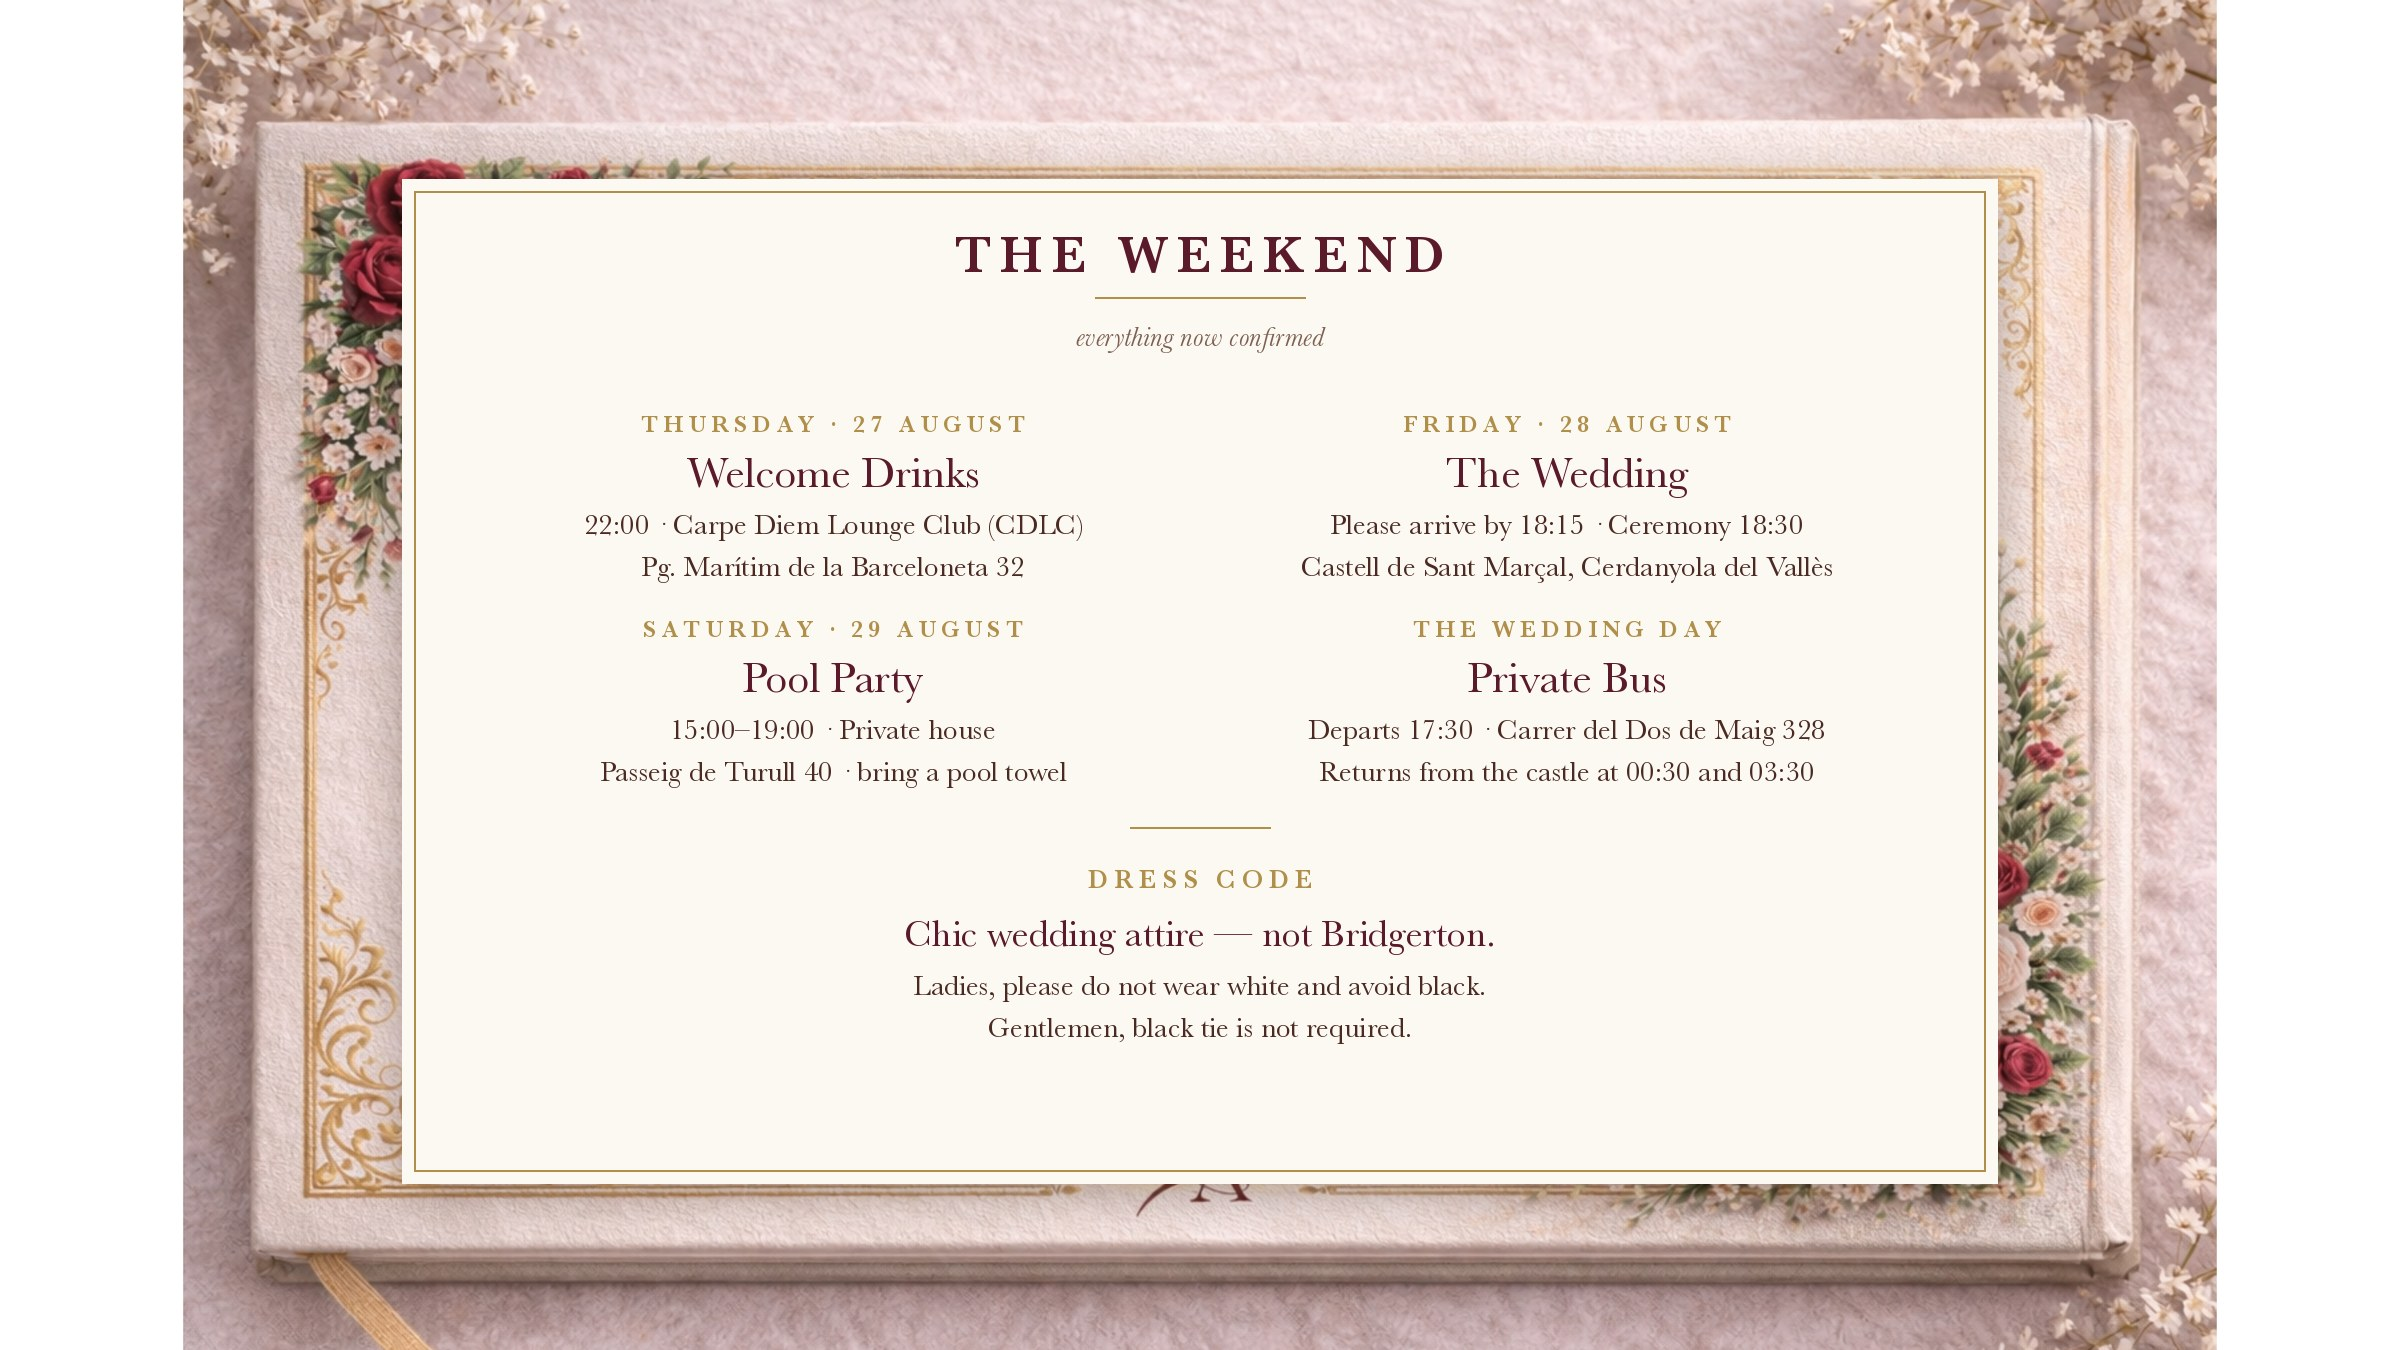
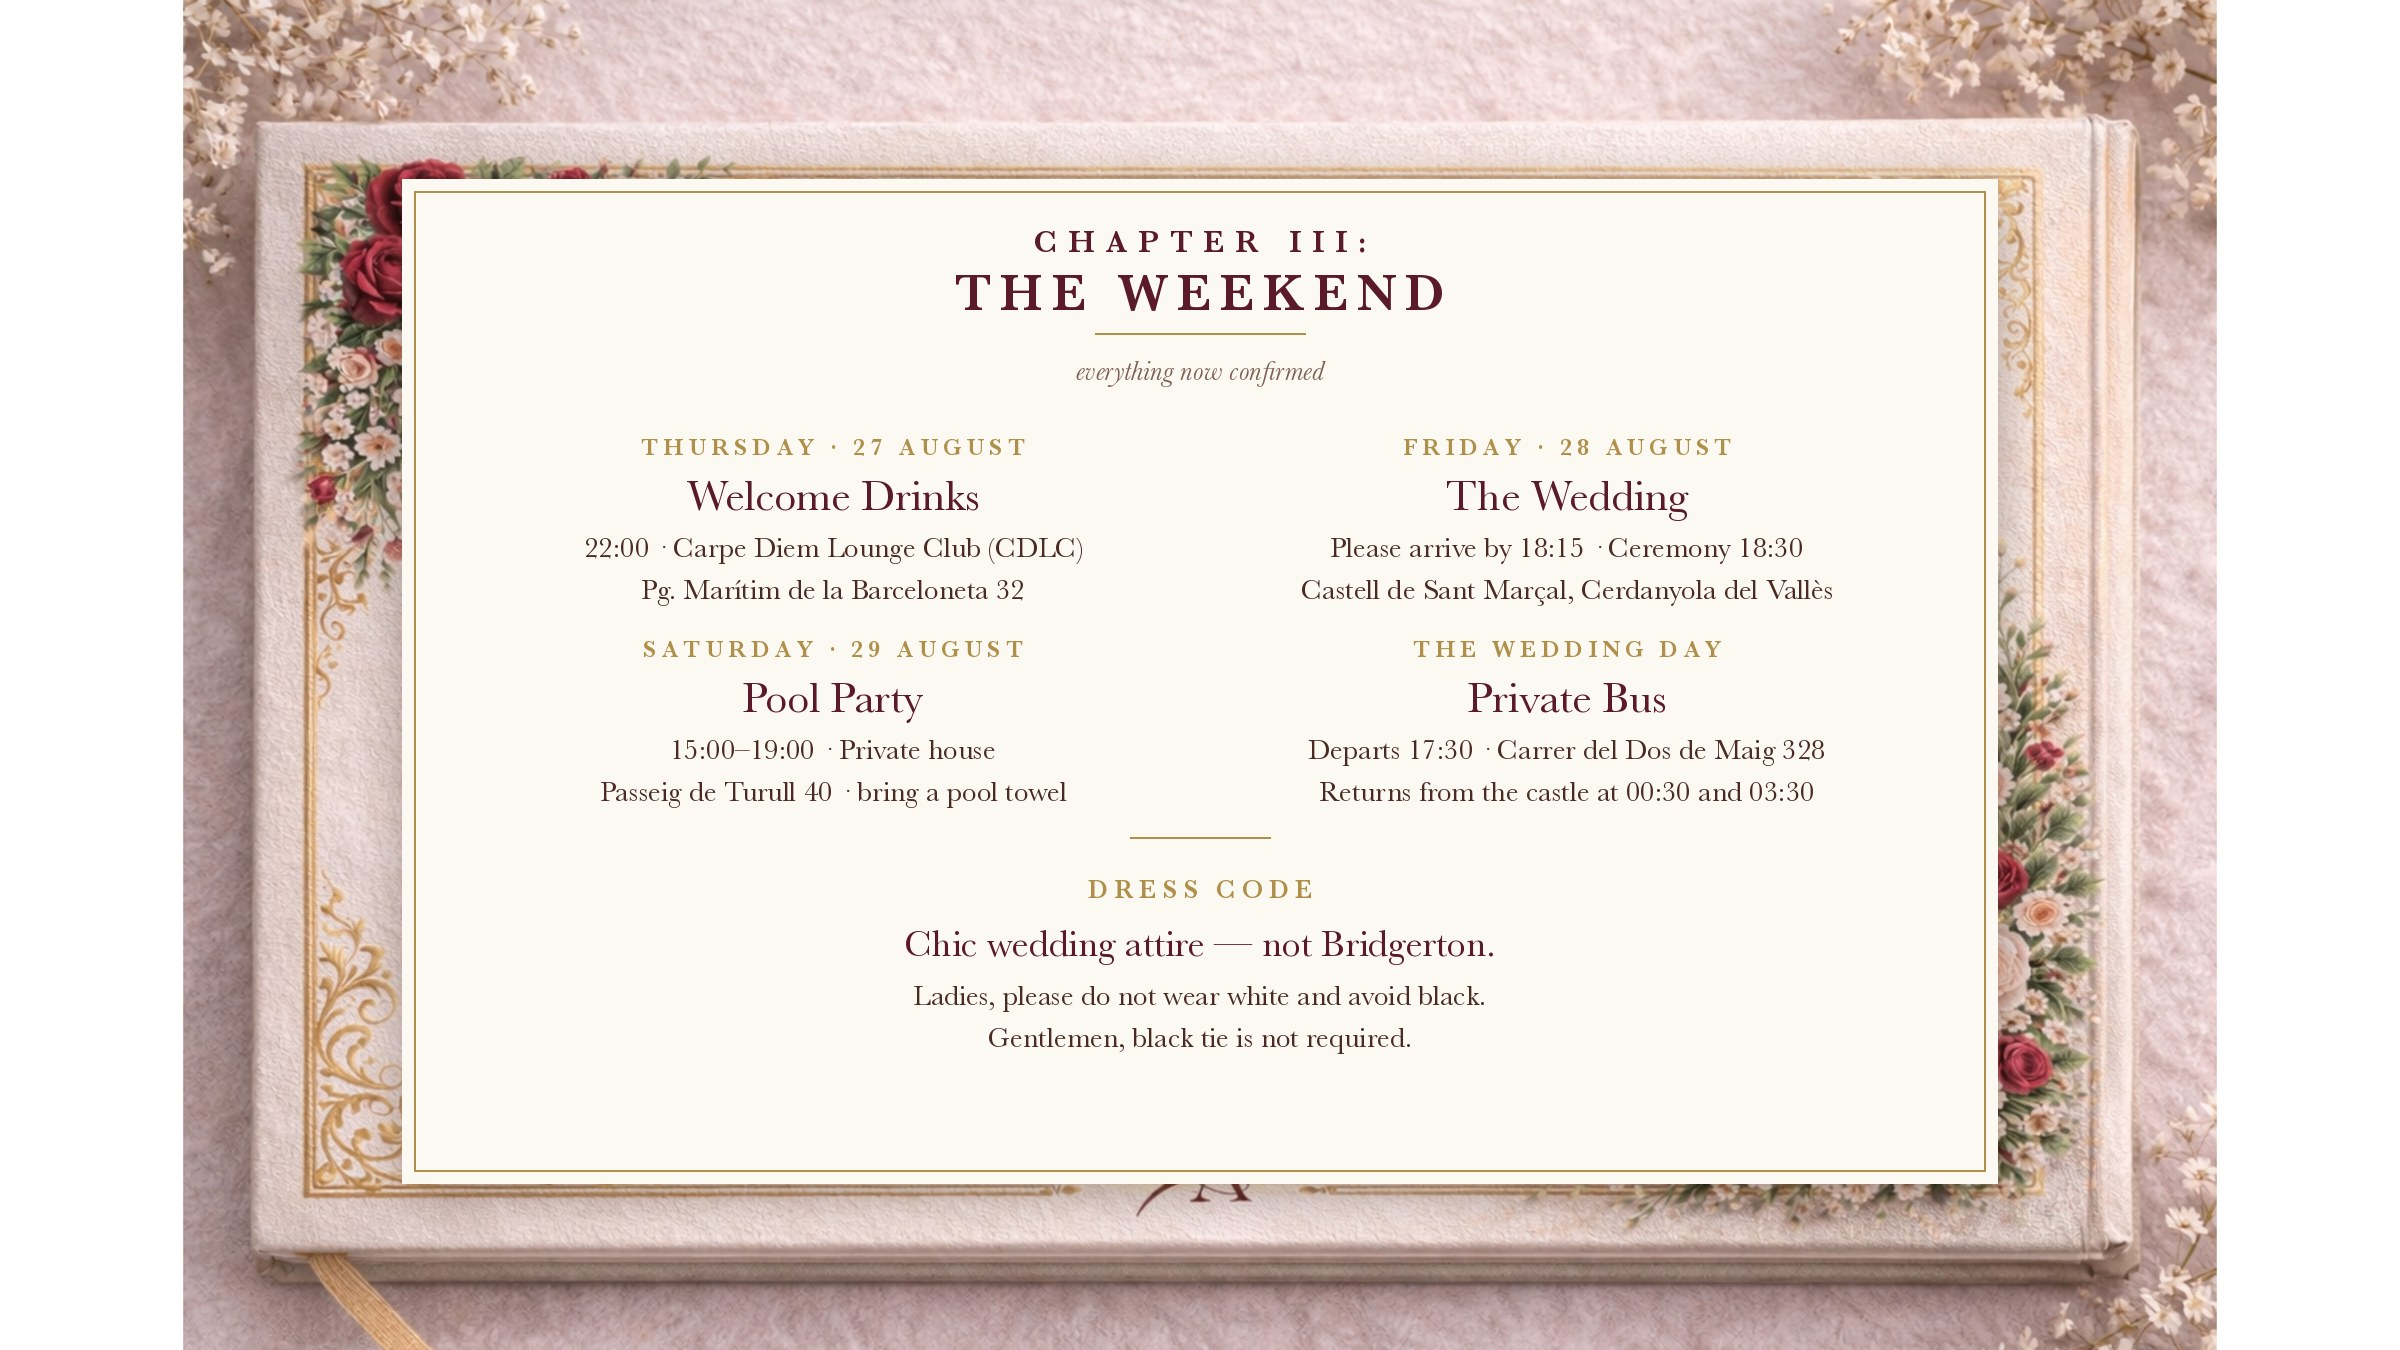
Chapter III drops its two stale promises; new pages carry chapter numbers
Chapter III still told guests "Details coming soon" for the welcome drinks
and "More information to follow" for the pool party, while the page right
after it now prints both, with addresses. The plate is a flat JPEG and the
editable master is a Canva design belonging to the designer, so the lines
are patched out in patch_chapter3.py: clean parchment lifted from directly
beneath each line, tone-matched against the target's own paper (ink pixels
excluded from the mean so the match is not dragged dark) and feathered at
the edges. Reads the untouched 6000px export, writes the 3000px page the
booklet serves. Nothing else on the plate is touched.

The three generated pages now carry Ana's own chapter convention —
"CHAPTER III: / THE WEEKEND", "CHAPTER VI: / THE SEATING PLAN",
"CHAPTER VI: / THE MENU" — so they read as her chapters continuing rather
than as inserts.

build_new_pages.py now prefers the 6000px plate in
~/crusty-backups/wedding-booklet-originals-6000px/ over the repo's 3000px
re-encode, and takes page names as arguments to rebuild just one.

diff --git a/build_new_pages.py b/build_new_pages.py
@@ -3,6 +3,8 @@
 Each new page mounts its content as a card on a copy of the back-cover plate
 (images-new/23.jpg), so the paper, gold rule and florals are Ana's own.
 """
+import os
+
 from PIL import Image, ImageDraw, ImageFont, ImageFilter
 
 W, H  = 2400, 1350
@@ -18,8 +20,15 @@ def font(sz, face=REG):
     return ImageFont.truetype(FB, sz, index=face)
 
 
+# The repo copy of the plate is now a 3000px re-encode; the untouched 6000px
+# export lives outside git. Prefer it when present, fall back to the repo.
+PLATE_ORIGINAL = os.path.expanduser('~/crusty-backups/wedding-booklet-originals-6000px/23.jpg')
+PLATE_REPO     = 'images-new/23.jpg'
+
+
 def base():
-    return Image.open('images-new/23.jpg').convert('RGB').resize((W, H), Image.LANCZOS)
+    plate = PLATE_ORIGINAL if os.path.exists(PLATE_ORIGINAL) else PLATE_REPO
+    return Image.open(plate).convert('RGB').resize((W, H), Image.LANCZOS)
 
 
 def tracked(d, xy, text, f, fill, track=0, anchor='mm'):
@@ -72,7 +81,7 @@ def rule(d, cx, y, half=95):
 def page_seating():
     pg = base(); d = ImageDraw.Draw(pg)
     x0, y0, tw, th = art_card(pg, Image.open('images/seating-plan.jpg'), w_frac=0.545, cy=0.565)
-    tracked(d, (W * 0.5, y0 - 132), 'CHAPTER VI', font(36, SEMI), WINE, 12)
+    tracked(d, (W * 0.5, y0 - 132), 'CHAPTER VI:', font(36, SEMI), WINE, 12)
     tracked(d, (W * 0.5, y0 - 74), 'THE SEATING PLAN', font(56, SEMI), WINE, 8)
     rule(d, W * 0.5, y0 - 34, 110)
     pg.save('images-new/24-seating.jpg', 'JPEG', quality=88, optimize=True, progressive=True)
@@ -83,7 +92,7 @@ def page_menu():
     pg = base(); d = ImageDraw.Draw(pg)
     art_card(pg, Image.open('images/menu.jpg'), h_frac=0.70, cx=0.655, cy=0.50)
     cx = W * 0.30
-    tracked(d, (cx, H * 0.355), 'CHAPTER VI', font(34, SEMI), WINE, 12)
+    tracked(d, (cx, H * 0.355), 'CHAPTER VI:', font(34, SEMI), WINE, 12)
     tracked(d, (cx, H * 0.412), 'THE MENU', font(58, SEMI), WINE, 8)
     rule(d, cx, H * 0.455, 95)
     for i, line in enumerate(['The banquet prepared for the evening,', 'served at your table beneath the stars.']):
@@ -108,26 +117,32 @@ def page_details():
     pg = base(); d = ImageDraw.Draw(pg)
     x0, y0, tw, th = paper_card(pg, 0.665, 0.745, cy=0.505)
     cx = x0 + tw / 2
-    tracked(d, (cx, y0 + 76), 'THE WEEKEND', font(52, SEMI), WINE, 9)
-    rule(d, cx, y0 + 118, 105)
-    d.text((cx, y0 + 158), 'everything now confirmed', font=font(29, ITAL), fill=(126, 96, 82), anchor='mm')
+    tracked(d, (cx, y0 + 62), 'CHAPTER III:', font(32, SEMI), WINE, 11)
+    tracked(d, (cx, y0 + 114), 'THE WEEKEND', font(52, SEMI), WINE, 9)
+    rule(d, cx, y0 + 154, 105)
+    d.text((cx, y0 + 192), 'everything now confirmed', font=font(29, ITAL), fill=(126, 96, 82), anchor='mm')
     colx = [x0 + tw * 0.27, x0 + tw * 0.73]
-    rowy = [y0 + 245, y0 + 450]
+    rowy = [y0 + 268, y0 + 470]
     for i, (day, title, lines) in enumerate(ENTRIES):
         px, py = colx[i % 2], rowy[i // 2]
         tracked(d, (px, py), day, font(24, SEMI), GOLD, 5)
         d.text((px, py + 48), title, font=font(44, REG), fill=WINE, anchor='mm')
         for j, ln in enumerate(lines):
             d.text((px, py + 100 + j * 42), ln, font=font(29, REG), fill=INK, anchor='mm')
-    rule(d, cx, y0 + 648, 70)
-    tracked(d, (cx, y0 + 700), 'DRESS CODE', font(26, SEMI), GOLD, 6)
-    d.text((cx, y0 + 754), 'Chic wedding attire \u2014 not Bridgerton.', font=font(38, REG), fill=WINE, anchor='mm')
+    rule(d, cx, y0 + 658, 70)
+    tracked(d, (cx, y0 + 710), 'DRESS CODE', font(26, SEMI), GOLD, 6)
+    d.text((cx, y0 + 764), 'Chic wedding attire \u2014 not Bridgerton.', font=font(38, REG), fill=WINE, anchor='mm')
     for j, ln in enumerate(['Ladies, please do not wear white and avoid black.',
                             'Gentlemen, black tie is not required.']):
-        d.text((cx, y0 + 806 + j * 42), ln, font=font(29, REG), fill=INK, anchor='mm')
+        d.text((cx, y0 + 816 + j * 42), ln, font=font(29, REG), fill=INK, anchor='mm')
     pg.save('images-new/26-details.jpg', 'JPEG', quality=88, optimize=True, progressive=True)
 
 
+PAGES = {'seating': page_seating, 'menu': page_menu, 'details': page_details}
+
 if __name__ == '__main__':
-    page_seating(); page_menu(); page_details()
-    print('built')
+    import sys
+    want = sys.argv[1:] or list(PAGES)
+    for name in want:
+        PAGES[name]()
+        print('built', name)

diff --git a/patch_chapter3.py b/patch_chapter3.py
@@ -1,0 +1,63 @@
+"""Retire the two 'details to follow' lines from Ana's Chapter III plate.
+
+Chapter III promised "Details coming soon" (welcome drinks) and "More
+information to follow" (pool party). Both are now confirmed and printed on
+the following page, so the promises are stale. The artwork is a flat JPEG
+with no editable source on this machine — the Canva master belongs to the
+designer — so the lines are patched out by lifting clean parchment from
+directly beneath each one, brightness-matched and feathered at the edges.
+
+Reads the untouched 6000px export, writes the 3000px page the booklet serves.
+"""
+import os
+
+import numpy as np
+from PIL import Image, ImageDraw, ImageFilter
+
+SRC = os.path.expanduser('~/crusty-backups/wedding-booklet-originals-6000px/19.jpg')
+DST = 'images-new/19.jpg'
+OUT_W = 3000
+
+# (target box, donor box) in 6000x3375 coordinates. Donors sit directly below
+# each line so the paper grain and lighting gradient already match.
+PATCHES = [
+    ((1520, 1760, 2140, 1865), (1520, 1880, 2140, 1985)),   # "Details coming soon."
+    ((3830, 1672, 4630, 1765), (3830, 1790, 4630, 1883)),   # "More information to follow."
+]
+FEATHER = 9
+
+
+def background_mean(gray, box):
+    """Mean of the box ignoring ink, so brightness matching is not dragged down."""
+    sub = gray.crop(box)
+    arr = np.array(sub, dtype=float)
+    paper = arr[arr >= 150]
+    return paper.mean() if paper.size else arr.mean()
+
+
+def main():
+    im = Image.open(SRC).convert('RGB')
+    gray = im.convert('L')
+
+    for target, donor in PATCHES:
+        tw, th = target[2] - target[0], target[3] - target[1]
+        patch = im.crop(donor).resize((tw, th), Image.LANCZOS)
+
+        # match the donor's paper tone to the target's own paper tone
+        delta = background_mean(gray, target) - background_mean(gray, donor)
+        patch = Image.fromarray(
+            np.clip(np.array(patch, dtype=float) + delta, 0, 255).astype(np.uint8))
+
+        mask = Image.new('L', (tw, th), 0)
+        ImageDraw.Draw(mask).rectangle(
+            [FEATHER, FEATHER, tw - FEATHER - 1, th - FEATHER - 1], fill=255)
+        im.paste(patch, (target[0], target[1]), mask.filter(ImageFilter.GaussianBlur(FEATHER / 2)))
+
+    h = round(OUT_W * im.size[1] / im.size[0])
+    im.resize((OUT_W, h), Image.LANCZOS).save(
+        DST, 'JPEG', quality=88, optimize=True, progressive=True)
+    print(f'{DST}: {OUT_W}x{h}, {os.path.getsize(DST) / 1024:.0f} KB')
+
+
+if __name__ == '__main__':
+    main()
